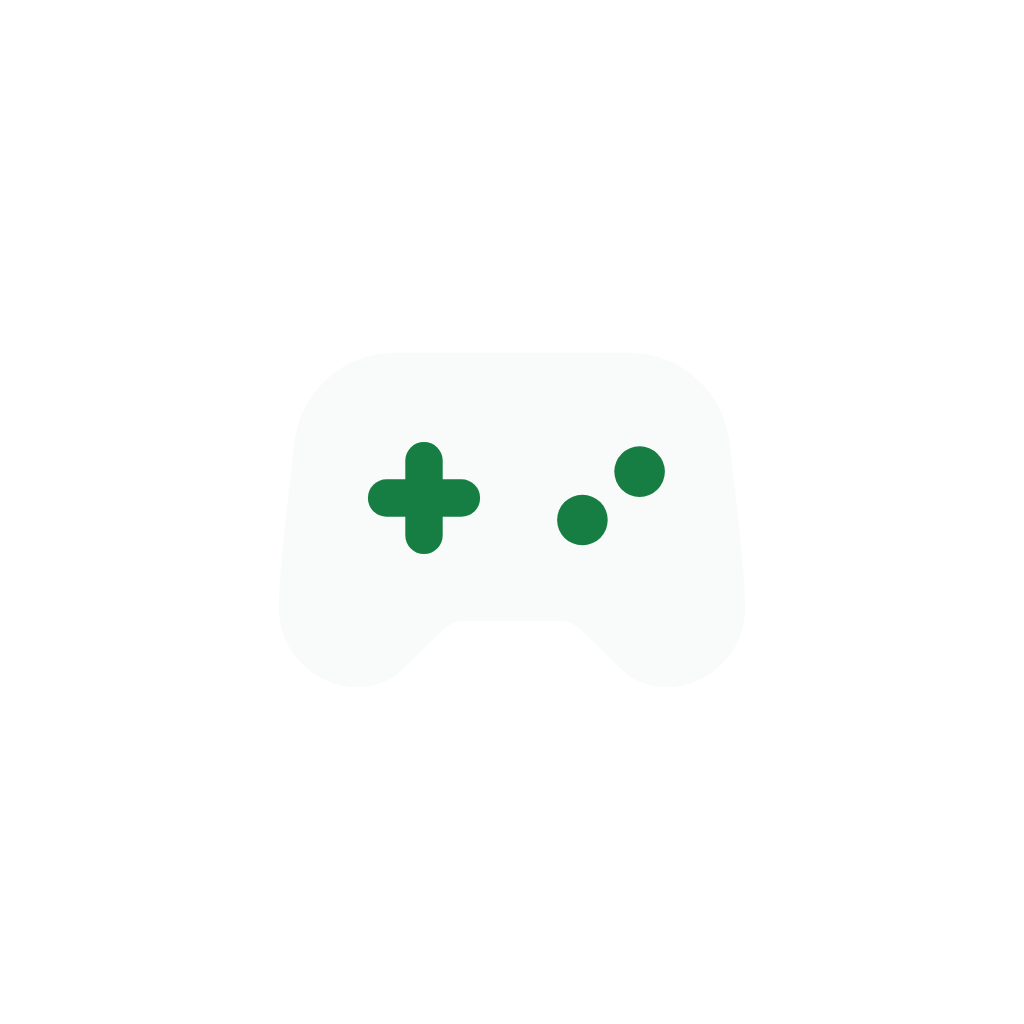
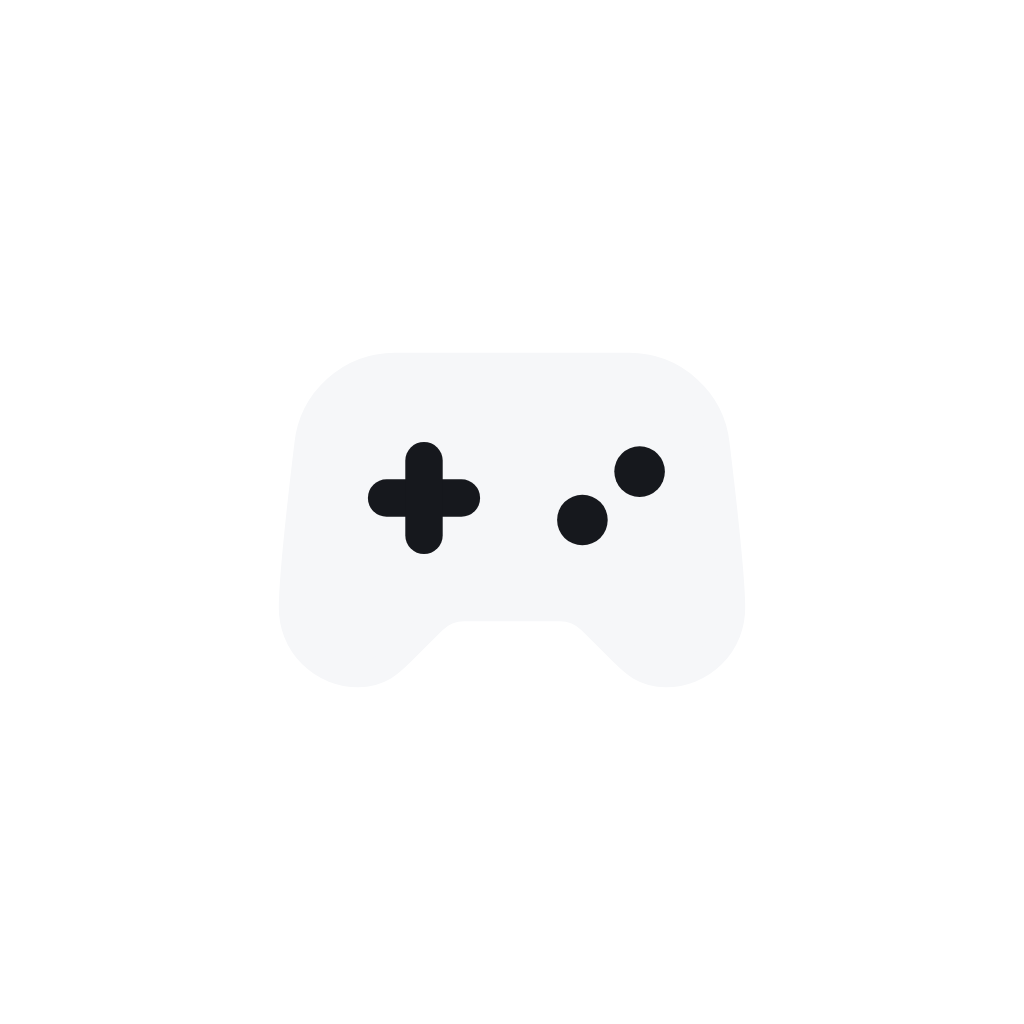
feat(app): ícono en blanco y negro y pantalla de carga oscura legible

Changed region(s): [[0.3438, 0.4062, 0.4688, 0.5625], [0.5312, 0.4375, 0.6562, 0.5312]]

diff --git a/src/components/BrandMark.tsx b/src/components/BrandMark.tsx
@@ -1,25 +1,24 @@
 import Svg, { Circle, G, Line, Path, Rect } from 'react-native-svg';
 
-// Dibujo del ícono de la app (assets/brand/icon.svg): mando marfil sobre el verde de "Disponible".
-// Los colores son los tokens --available y --available-foreground del tema claro (global.css): el
-// ícono es la marca y no cambia con el tema.
-const GREEN = 'hsl(146 70% 29%)';
-const IVORY = 'hsl(140 20% 98%)';
+// Dibujo del ícono de la app (assets/brand/icon.svg): mando blanco roto sobre grafito. La marca es
+// en blanco y negro y no cambia con el tema; los dos tonos son HSL, sin negro ni blanco puros.
+const GRAPHITE = 'hsl(225 14% 10%)';
+const WHITE = 'hsl(220 20% 97%)';
 const BODY =
   'M17.32 5H6.68a4 4 0 0 0-3.978 3.59c-.006.052-.01.101-.017.152C2.604 9.416 2 14.456 2 16a3 3 0 0 0 3 3c1 0 1.5-.5 2-1l1.414-1.414A2 2 0 0 1 9.828 16h4.344a2 2 0 0 1 1.414.586L17 18c.5.5 1 1 2 1a3 3 0 0 0 3-3c0-1.545-.604-6.584-.685-7.258-.007-.05-.011-.1-.017-.151A4 4 0 0 0 17.32 5z';
 
 export function BrandMark({ size = 44 }: { size?: number }) {
   return (
     <Svg width={size} height={size} viewBox="0 0 24 24">
-      <Rect width={24} height={24} rx={6} fill={GREEN} />
+      <Rect width={24} height={24} rx={6} fill={GRAPHITE} />
       <G transform="translate(12 12.2) scale(0.66) translate(-12 -12)">
-        <Path d={BODY} fill={IVORY} stroke={IVORY} strokeWidth={1.2} strokeLinejoin="round" />
+        <Path d={BODY} fill={WHITE} stroke={WHITE} strokeWidth={1.2} strokeLinejoin="round" />
         <Line
           x1={6.3}
           y1={11}
           x2={9.7}
           y2={11}
-          stroke={GREEN}
+          stroke={GRAPHITE}
           strokeWidth={1.7}
           strokeLinecap="round"
         />
@@ -28,12 +27,12 @@ export function BrandMark({ size = 44 }: { size?: number }) {
           y1={9.3}
           x2={8}
           y2={12.7}
-          stroke={GREEN}
+          stroke={GRAPHITE}
           strokeWidth={1.7}
           strokeLinecap="round"
         />
-        <Circle cx={15.2} cy={12} r={1.15} fill={GREEN} />
-        <Circle cx={17.8} cy={9.8} r={1.15} fill={GREEN} />
+        <Circle cx={15.2} cy={12} r={1.15} fill={GRAPHITE} />
+        <Circle cx={17.8} cy={9.8} r={1.15} fill={GRAPHITE} />
       </G>
     </Svg>
   );
